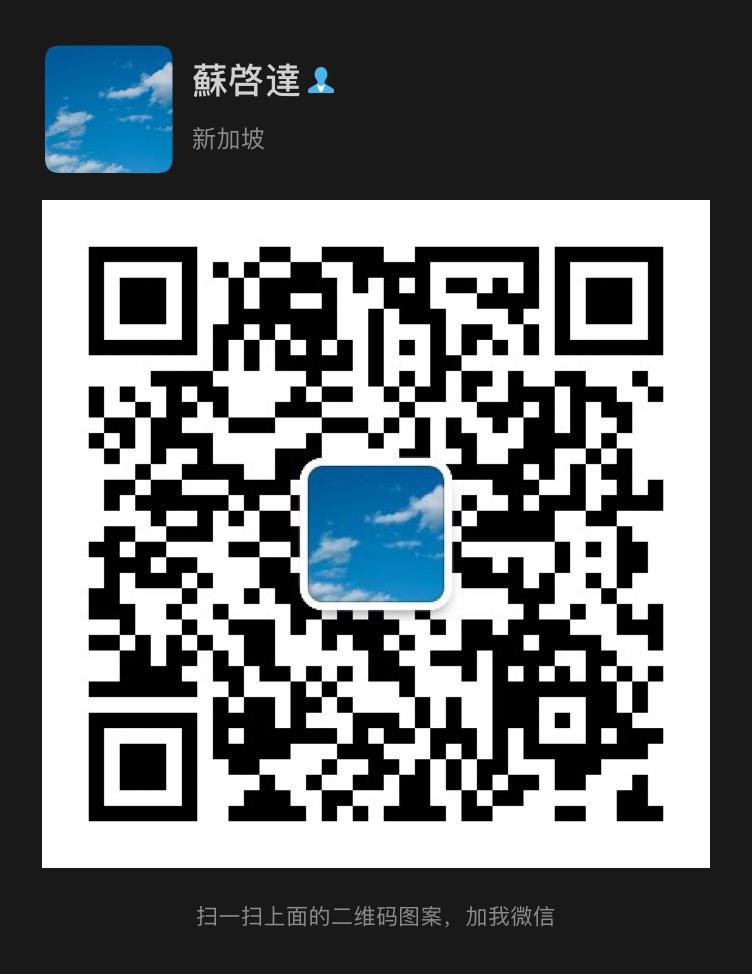
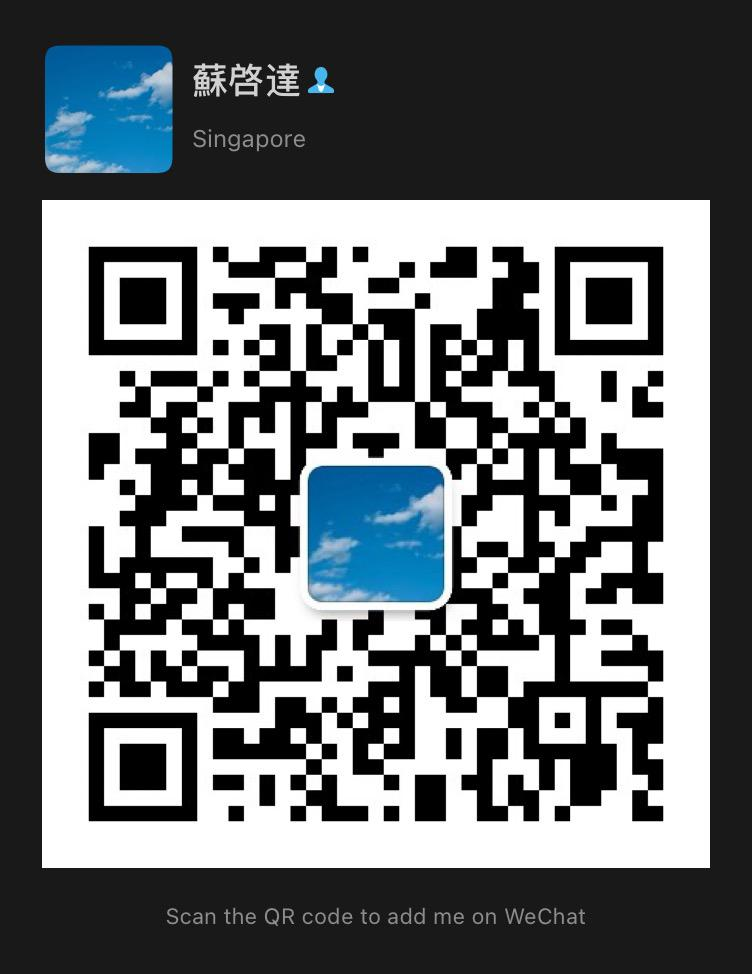
v0.3

Changed region(s): [[0.0918, 0.2464, 0.887, 0.8624], [0.2141, 0.924, 0.7952, 0.9548], [0.2447, 0.1232, 0.3976, 0.154]]

diff --git a/research.html b/research.html
@@ -5,7 +5,7 @@
   <script src="https://use.fontawesome.com/baff6f55f5.js"></script>
     <meta charset="utf-8">
     <meta http-equiv="X-UA-Compatible" content="IE=edge">
-    <title>Qida Su</title>
+    <title>Qida Su 苏启达</title>
 
     <link rel="stylesheet" href="stylesheets/styles.css">
     <link rel="stylesheet" href="stylesheets/github-light.css">
@@ -33,7 +33,8 @@
       cursor: pointer;
       padding: 0px;
       border: none;
-      text-align: left;
+      text-align: justify;
+      text-align-last: justify;
       outline: none;
       font-size: 100%;
       transition: 0.3s;
@@ -73,32 +74,54 @@
   <body>
     <div class="wrapper">
       <header>
-        <h1>Qida Su</h1>
-        <p>Research Fellow<br>Nanyang Technological University Singapore</p>
+        <h1>Qida Su, <em>PhD</em></h1>
+	<h1>苏启达</h1>
+        <p>Research Fellow<br>研究员<br>Nanyang Technological University (Singapore)<br>新加坡 南洋理工大学</p>
+     
+    <h3><a href="https://qidasu.github.io/">Home 主页</a></h3>
+        <h3><a href="https://qidasu.github.io/research.html">Research 研究</a></h3>
+    	<h3><a href="https://qidasu.github.io/research/CV.pdf">CV 简历</a></h3>  
         
-    <h3><a href="https://qidasu.github.io/">Home</a></h3>
-        <h3><a href="https://qidasu.github.io/research.html">Research</a></h3>
-    	<h3><a href="https://qidasu.github.io/research/CV.pdf">CV</a></h3>  
-        
-        <h3><a href="https://tyleransom.github.io/personal.html">Personal</a></h3>
-    <b>Social</b><br>
+        <h3><a href="https://qidasu.github.io/personal.html">Personal 关于我</a></h3>
+    <b>Social 联系方式</b><br>
         <div class="social-row">
-          <a href="mailto:qsu002@ntu.edu.sg" class="author-social" target="_blank"><i class="fa fa-fw fa-envelope-square"></i> Email</a><br>
+          <a href="mailto:qsu002@ntu.edu.sg" class="author-social" target="_blank"><i class="fa fa-fw fa-envelope"></i> Email 邮箱</a><br>
 
-          <a href="https://orcid.org/0000-0002-8250-1807"><i class="ai ai-fw ai-orcid-square"></i> ORCID</a><br>
+          <a href="https://orcid.org/0000-0002-8250-1807"><i class="ai ai-fw ai-orcid"></i> ORCID</a><br>
           
 
-          <a href="https://www.linkedin.com/in/qida-su" class="author-social" target="_blank"><i class="fa fa-fw fa-linkedin-square"></i> LinkedIn</a><br>
+          <a href="https://www.linkedin.com/in/qida-su" class="author-social" target="_blank"><i class="fa fa-fw fa-linkedin"></i> LinkedIn 领英</a><br>
+	  <a href="https://qidasu.github.io/wechat.jpeg"><i class="fa fa-wechat"></i> Wechat 微信</a><br>
           <br>
         </div>
         <br>
 
-    <p><b>Contact:</b><br>School of Civil and Environmental Engineering<br>Nanyang Technological University<br>50 Nanyang Avenue<br>Singapore 639798</p>
+    <p><b>Contact 地址:</b><br>School of Civil and Environmental Engineering 土木及环境工程学系<br>Nanyang Technological University 南洋理工大学<br>50 Nanyang Avenue<br>Singapore 639798</p>
     <p><small>Hosted on GitHub Pages &mdash; Theme by <a href="https://github.com/orderedlist">orderedlist</a></small></p>
       </header>
       <section>
+    <h1>My research</h1>
+    <p> Today, more than 55% of people globally live in urban areas, and it is projected to reach 68% by 2050. The accelerated urbanization has contributed to the deterioration of the transportation system, particularly in densely populated areas. Consequently, challenges and opportunities arise in both supply and demand in urban transport. On the one hand, the evolving technology and infrastructure, including autonomous and connected vehicles (AV, CAV), high-speed railways, Internet of Thing (IoT), artificial intelligence, etc., excite a much more fertile imagination on future transport. The resultant upgraded or emerging transportation modes, such as Transportation as a Service (TaaS) or shared mobility, have intelligently transformed and will continue to change our lives in cities, from the aspects of individual travel behaviours to urban land use. On the other hand, during urbanization, in addition to the increasing and diversifying passenger and logistic demands for travel, the appeals from the public are growing for better urban mobility in diverse dimensions, e.g., efficiency, accessibility, privacy, reliability, robustness etc. These ever-stronger urges, in turn, drive the development of smart transport. </p>
+    <p> Given such on-going transformation in travel supply and demand, my research focuses on addressing the urban transport issues towards the smart transport future, leveraging on the methodologies from economics, operation research, civil engineering, and data science. The topics to my interest include emerging transport policies, commuting traffic management, integrated land use and transport planning, flexible work arrangement, and their cross-fields in transportation. In particular, the smart transport that I refer to is not only the emerging smart transport modes or services, but also the strategic planning and management of urban transport system with foresight. I am ambitious with my research to facilitate the cities to better manage the travel supply and demand in future transport and to achieve efficient, sustainable, resilient, and smart urban mobility. </p>
+ 	
 
-    <h2><a id="published-papers-updated" class="anchor" href="#publications" aria-hidden="true"><span class="octicon octicon-link"></span></a>Published &amp; Forthcoming Papers</h2>
+    	<p>My research projects are summarized below. </p>
+   	<hr>
+	<h2>Commuting Traffic management. </h2>
+	<p>  Peak hour traffic congestion has always been a challenge in city management. Due to the ubiquitous jobs-housing separation in most metropolitans, commuters inevitably need to travel between home and workplace, imposing negative externalities to others. Their commuting behaviours also evolve, particularly with emerging transports. To better manage the commuting traffic, an important issue is to understand commuters’ decision makings on travel modes, departure time and schedule choices. I conduct analytical studies from diverse perspectives on commuter’s within-day travel behaviours considering emerging transports, such as the mode choice between driving with parking need and using ride-sourcing service (Su & Wang, 2019), and the parking location choices with distant parking options in AV era (Su & Wang, 2020b). In addition to re-examining the widely discussed measures, I also aim to look for the easy-to-implement, commuter-friendly, yet effective measures in commuting traffic management. </p>
+	<hr>
+	<h2>Flexible work arrangement (FWA). </h2>
+	<p>  It cannot be denied that most traffic congestions, particularly during peak hours, are mainly attributed to agglomerated travel demand resulted from the rigid working hours in urban areas. Though FWAs are not recent concepts, their popularization has been hindered over the past few decades, not until the recent outbreak of the pandemic. To promote the popularization of FWAs and achieve sustainable transport with optimized travel demand, I conduct studies on various FWAs, such as compressed work schedule (Su & Wang, 2020a), flextime and telecommuting, examining not only their impacts on traffic congestion, but also the impacts on productivity, public health, and social welfare.</p>
+	<hr>
+	<h2>Integrated land use and transport planning. </h2> 
+	<p> In city centres of many metropolises, e.g., Hong Kong, Singapore, the land spaces are limited with exorbitant prices. It is of immense necessity to optimize the land use to cater to contemporary mobility needs in social benefit maximization. The planning of transport infrastructure should be reassessed in advance to equip city regulators with foresight in tackling the future transport issues. For instance, envisioning the self-parking capability in future transport, the parking land in downtown can be saved for other productive usages by shifting more parking spaces outwards. Thus, I carry out studies on the CBD parking provision with AVs (Su et al., 2020b) and the spatial parking planning design with mixed human-driven and automated traffic. Also, to accelerate the vehicle to everything (V2X) roadway upgrade towards vehicles autonomy, I examine its build-operate-transfer model to introduce private capitals.</p>
+	<hr>
+	<h2>Emerging transport policies. </h2> 
+	<p> With the boost in information and communication technology, a tremendous quantity increment in novel transport modes or services can be foreseen. These emerging transports, on the one hand, can better fulfil the consumer needs on mobility; however, on the other hand, may bring side-effects to society. As extensions to my previous studies, I would continue to explore novel and technically feasible managing measures or policies on emerging transport to pursue smarter mobility, e.g., the smart management of distant shared parking via IoT, the flexible supply between ride-sourcing service and parking. </p> 
+	<hr>
+	<p> Overall, I see myself as a researcher who applies the methodological skills and tools from interdisciplinary to provide practical insights into urban transport issues. I am proud to devote myself to these challenging yet exciting problems towards future smart transport.</p>
+
+    <h2><a id="(Temp)published-papers-updated" class="anchor" href="#publications" aria-hidden="true"><span class="octicon octicon-link"></span></a>Published &amp; Forthcoming Papers</h2>
 
     <p>
     <p style="margin:0"> <a style="margin:0; font-size:100%; font-weight:bold" href="https://doi.org/10.1016/j.econlet.2021.109812">Learning during the COVID-19 pandemic: It is not who you teach, but how you teach</a> <br> with <a href="https://economics.cornell.edu/george-orlov">George Orlov</a>, <a href="https://dougmckee.net/">Doug McKee, <a href="https://sites.google.com/site/econjimberry/">James Berry</a>, <a href="https://sites.google.com/site/austinboyle/">Austin Boyle</a>, <a href="https://www.ilr.cornell.edu/people/thomas-diciccio">Thomas J. DiCiccio</a>, <a href="https://alexreesjones.github.io/">Alex Rees-Jones</a>, and <a href="https://economics.cornell.edu/j%C3%B6rg-stoye">Joerg Stoye</a> <br> <i>Economics Letters</i>, Forthcoming <br><button class="accordion"> 

diff --git a/personal.html b/personal.html
@@ -4,7 +4,7 @@
   <script src="https://use.fontawesome.com/baff6f55f5.js"></script>
     <meta charset="utf-8">
     <meta http-equiv="X-UA-Compatible" content="IE=edge">
-    <title>Tyler Ransom by tyleransom</title>
+    <title>Qida Su 苏启达</title>
 
     <link rel="stylesheet" href="stylesheets/styles.css">
     <link rel="stylesheet" href="stylesheets/github-light.css">
@@ -33,7 +33,7 @@
       cursor: pointer;
       padding: 0px;
       border: none;
-      text-align: left;
+      text-align: justify;
       outline: none;
       font-size: 100%;
       transition: 0.3s;
@@ -73,27 +73,29 @@
   <body>
     <div class="wrapper">
       <header>
-        <h1>Qida Su</h1>
-        <p>Research Fellow<br>Nanyang Technological University Singapore</p>
+        <h1>Qida Su, <em>PhD</em></h1>
+	<h1>苏启达</h1>
+        <p>Research Fellow<br>研究员<br>Nanyang Technological University (Singapore)<br>新加坡 南洋理工大学</p>
+     
+    <h3><a href="https://qidasu.github.io/">Home 主页</a></h3>
+        <h3><a href="https://qidasu.github.io/research.html">Research 研究</a></h3>
+    	<h3><a href="https://qidasu.github.io/research/CV.pdf">CV 简历</a></h3>  
         
-    <h3><a href="https://qidasu.github.io/">Home</a></h3>
-        <h3><a href="https://qidasu.github.io/research.html">Research</a></h3>
-    	<h3><a href="https://qidasu.github.io/research/CV.pdf">CV</a></h3>  
-        
-        <h3><a href="https://tyleransom.github.io/personal.html">Personal</a></h3>
-    <b>Social</b><br>
+        <h3><a href="https://qidasu.github.io/personal.html">Personal 关于我</a></h3>
+    <b>Social 联系方式</b><br>
         <div class="social-row">
-          <a href="mailto:qsu002@ntu.edu.sg" class="author-social" target="_blank"><i class="fa fa-fw fa-envelope-square"></i> Email</a><br>
+          <a href="mailto:qsu002@ntu.edu.sg" class="author-social" target="_blank"><i class="fa fa-fw fa-envelope"></i> Email 邮箱</a><br>
 
-          <a href="https://orcid.org/0000-0002-8250-1807"><i class="ai ai-fw ai-orcid-square"></i> ORCID</a><br>
+          <a href="https://orcid.org/0000-0002-8250-1807"><i class="ai ai-fw ai-orcid"></i> ORCID</a><br>
           
 
-          <a href="https://www.linkedin.com/in/qida-su" class="author-social" target="_blank"><i class="fa fa-fw fa-linkedin-square"></i> LinkedIn</a><br>
+          <a href="https://www.linkedin.com/in/qida-su" class="author-social" target="_blank"><i class="fa fa-fw fa-linkedin"></i> LinkedIn 领英</a><br>
+	  <a href="https://qidasu.github.io/wechat.jpeg"><i class="fa fa-wechat"></i> Wechat 微信</a><br>
           <br>
         </div>
         <br>
 
-    <p><b>Contact:</b><br>School of Civil and Environmental Engineering<br>Nanyang Technological University<br>50 Nanyang Avenue<br>Singapore 639798</p>
+    <p><b>Contact 地址:</b><br>School of Civil and Environmental Engineering 土木及环境工程学系<br>Nanyang Technological University 南洋理工大学<br>50 Nanyang Avenue<br>Singapore 639798</p>
     <p><small>Hosted on GitHub Pages &mdash; Theme by <a href="https://github.com/orderedlist">orderedlist</a></small></p>
       </header>
       <section>

diff --git a/index.html b/index.html
@@ -33,7 +33,8 @@
       cursor: pointer;
       padding: 0px;
       border: none;
-      text-align: left;
+      text-align: justify;
+      text-align-last: justify;
       outline: none;
       font-size: 100%;
       transition: 0.3s;
@@ -75,13 +76,13 @@
       <header>
         <h1>Qida Su, <em>PhD</em></h1>
 	<h1>苏启达</h1>
-        <p>Research Fellow<br>研究员<br>Nanyang Technological University (Singapore)<br>新加坡南洋理工大学</p>
+        <p>Research Fellow<br>研究员<br>Nanyang Technological University (Singapore)<br>新加坡 南洋理工大学</p>
      
     <h3><a href="https://qidasu.github.io/">Home 主页</a></h3>
         <h3><a href="https://qidasu.github.io/research.html">Research 研究</a></h3>
     	<h3><a href="https://qidasu.github.io/research/CV.pdf">CV 简历</a></h3>  
         
-        <h3><a href="https://tyleransom.github.io/personal.html">Personal 关于我</a></h3>
+        <h3><a href="https://qidasu.github.io/personal.html">Personal 关于我</a></h3>
     <b>Social 联系方式</b><br>
         <div class="social-row">
           <a href="mailto:qsu002@ntu.edu.sg" class="author-social" target="_blank"><i class="fa fa-fw fa-envelope"></i> Email 邮箱</a><br>
@@ -103,7 +104,7 @@
       <p>I am currently a Research Fellow of Transportation at the <a href="http://www.ntu.edu.sg">Nanyang Technological University (NTU)</a> in Singapore, where I obtained my Ph.D. from <a href="http://cee.ntu.edu.sg/">Civil and environmental engineering</a> in 2019 with University Research Scholarship. I also received my B.Eng. with First Class Honors at <a href="https://hkust.edu.hk/">Hong Kong University of Science and Technology (HKUST)</a>.</p>
       <p>My research focuses on addressing the urban mobility issues towards the smart transport future with strategic planning and management.</p>
 
-      <p>我现在在新加坡<a href="http://www.ntu.edu.sg">南洋理工大学（NTU）</a>土木及环境工程学系 担任博士后研究员。我亦于南洋理工大学取得博士学位，并获得学校研究奖学金。此前，我也在<a href="https://hkust.edu.hk/">香港科技大学 (HKUST)</a>获得甲等荣誉工学士学位.</p>
+      <p>我现在在新加坡 <a href="http://www.ntu.edu.sg">南洋理工大学（NTU）</a>土木及环境工程学系 担任博士后研究员。我亦于 南洋理工大学 取得博士学位，并获得学校研究奖学金。此前，我也在 <a href="https://hkust.edu.hk/">香港科技大学 (HKUST)</a> 获得 甲等荣誉 工学士学位.</p>
       <p>我的研究主要是关于策略性的交通规划与管理，以应对面向未来智能交通时代衍生的各种城市交通问题。</p>
       </section>
     </div>
